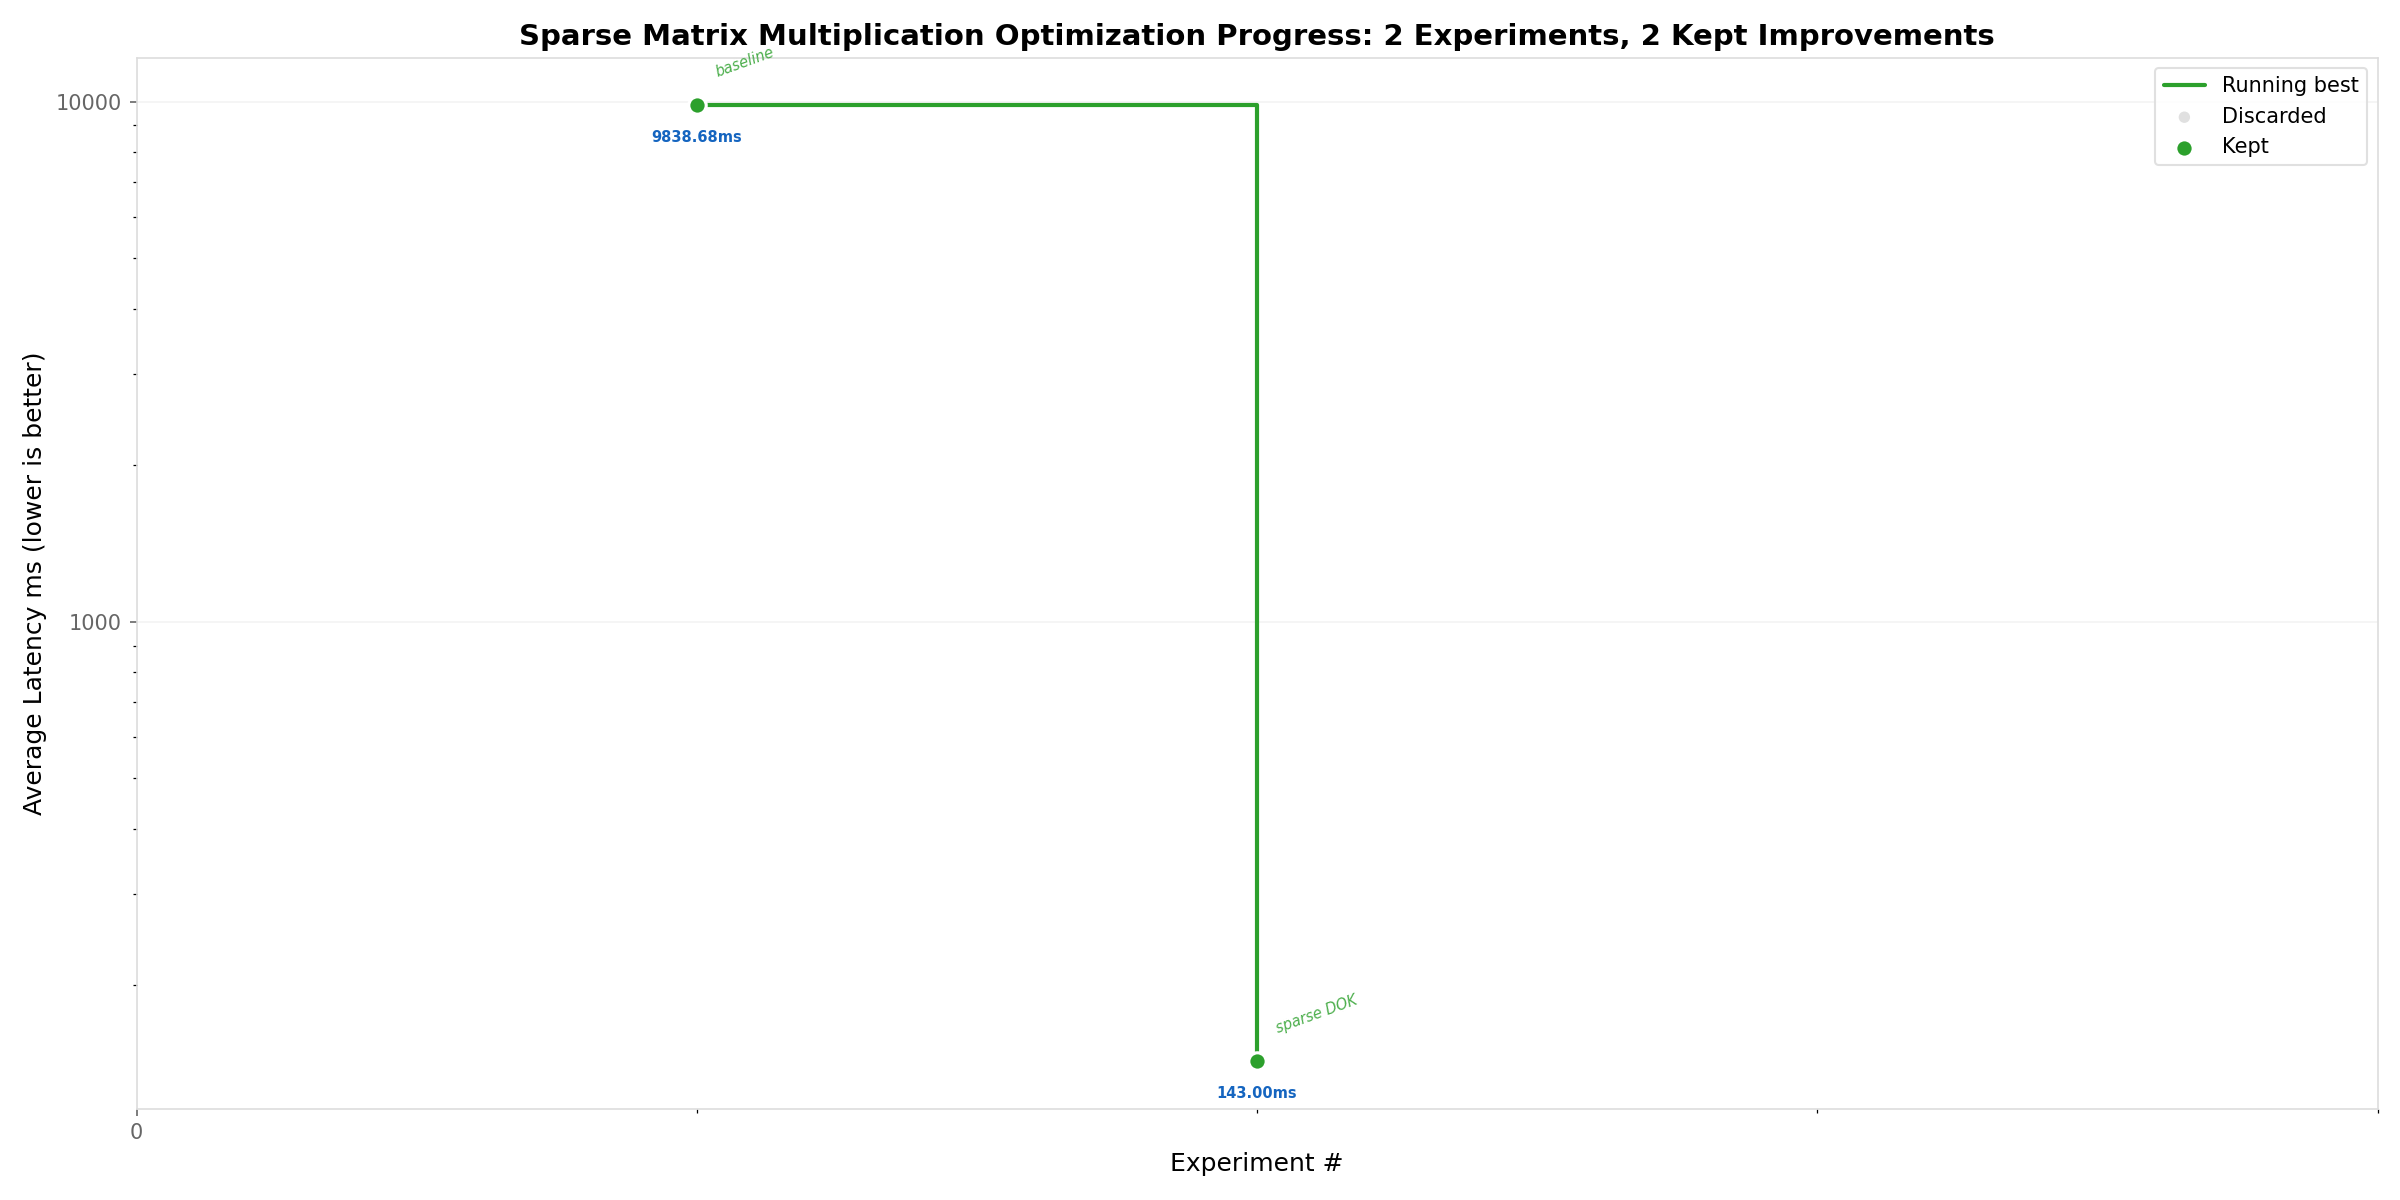
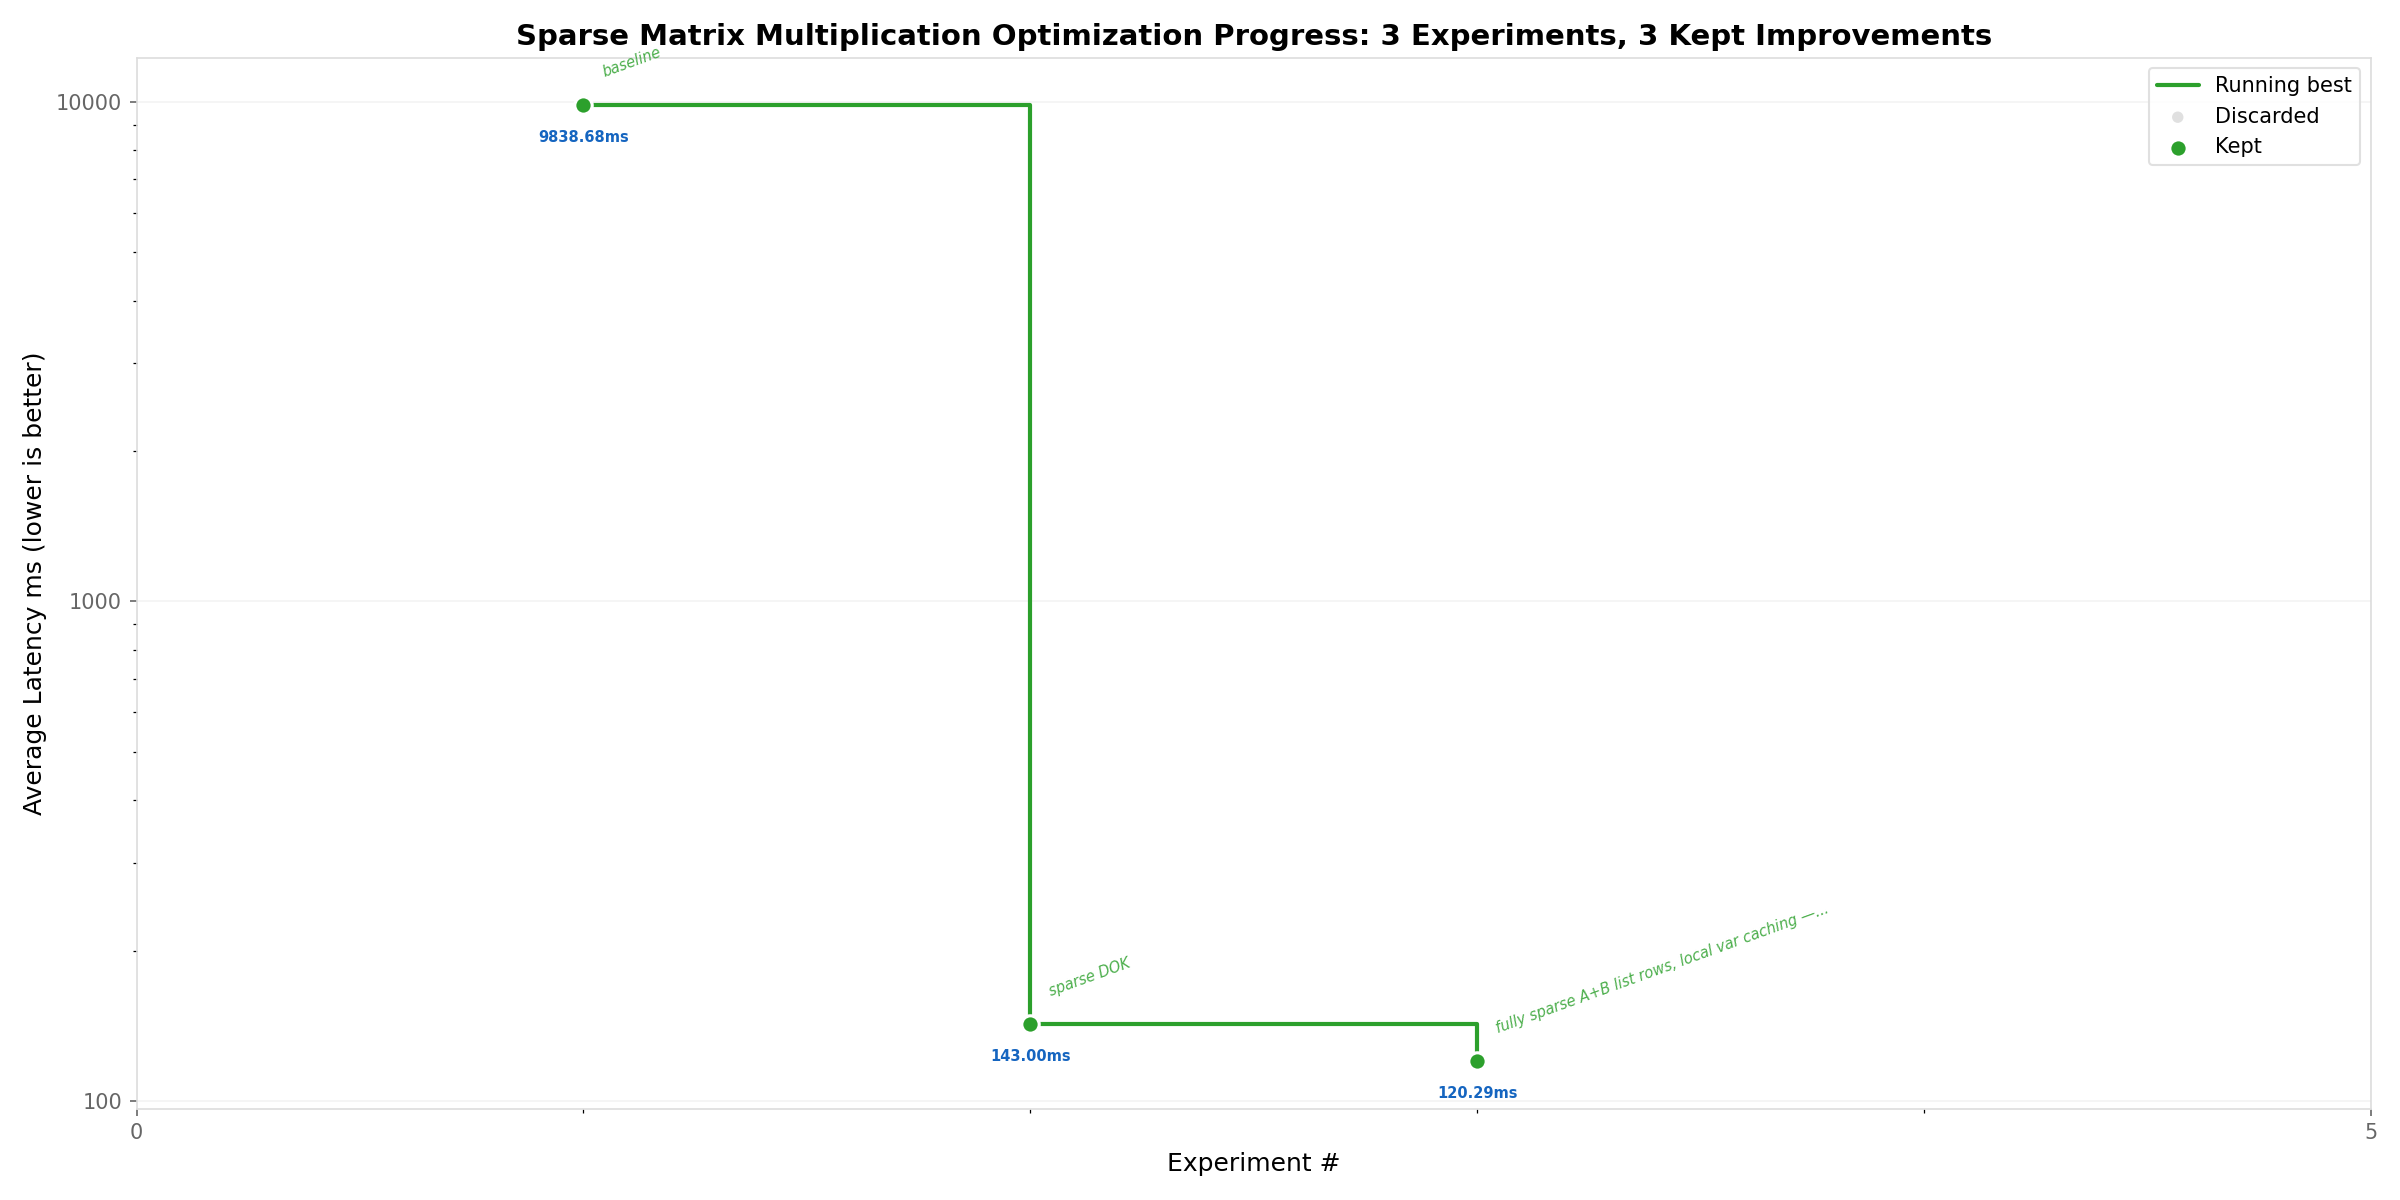
Experiment 3 results: fully sparse 120.29ms (81.8x vs baseline), 50/50 passed

diff --git a/progress.md b/progress.md
@@ -26,3 +26,15 @@
 - **Observation**: Massive improvement. Next steps: also sparsify A's representation, try Gustavson's algorithm with dense accumulator, or explore C-level acceleration via ctypes.
 
 ---
+
+### Experiment 3 — Fully Sparse A+B with Local Var Caching
+
+- **Tag**: apr07_0116 — Experiment 3 — aae3799
+- **Algorithm**: Pre-extract non-zeros from both A and B as list-of-tuples per row. Cache result_row as local variable. Only iterate non-zero pairs.
+- **Time Complexity**: O(nnz(A) * avg_nnz_per_row(B)) average. Same worst case O(m*n*p).
+- **Pros**: 16% improvement over exp 2. Eliminates scanning zero positions in A. Local var caching reduces dict lookups.
+- **Cons**: List comprehension for sparse extraction still touches all elements once during setup.
+- **Result**: 50/50 passed, avg latency 120.29 ms
+- **Observation**: Incremental gain from avoiding zero-checks in A. Next: try C extension via ctypes or algorithmic changes like blocking.
+
+---

diff --git a/README.md b/README.md
@@ -8,3 +8,4 @@ This repo aims to optimize the time complexity for Sparse Matrix multiplication 
 |---|---|---|---|
 | 1 (baseline) | 9838.68 ms | keep | Naive O(n^3) triple-loop |
 | 2 | 143.00 ms | keep | Sparse DOK — skip zeros, 68.8x speedup |
+| 3 | 120.29 ms | keep | Fully sparse A+B, local var caching |
